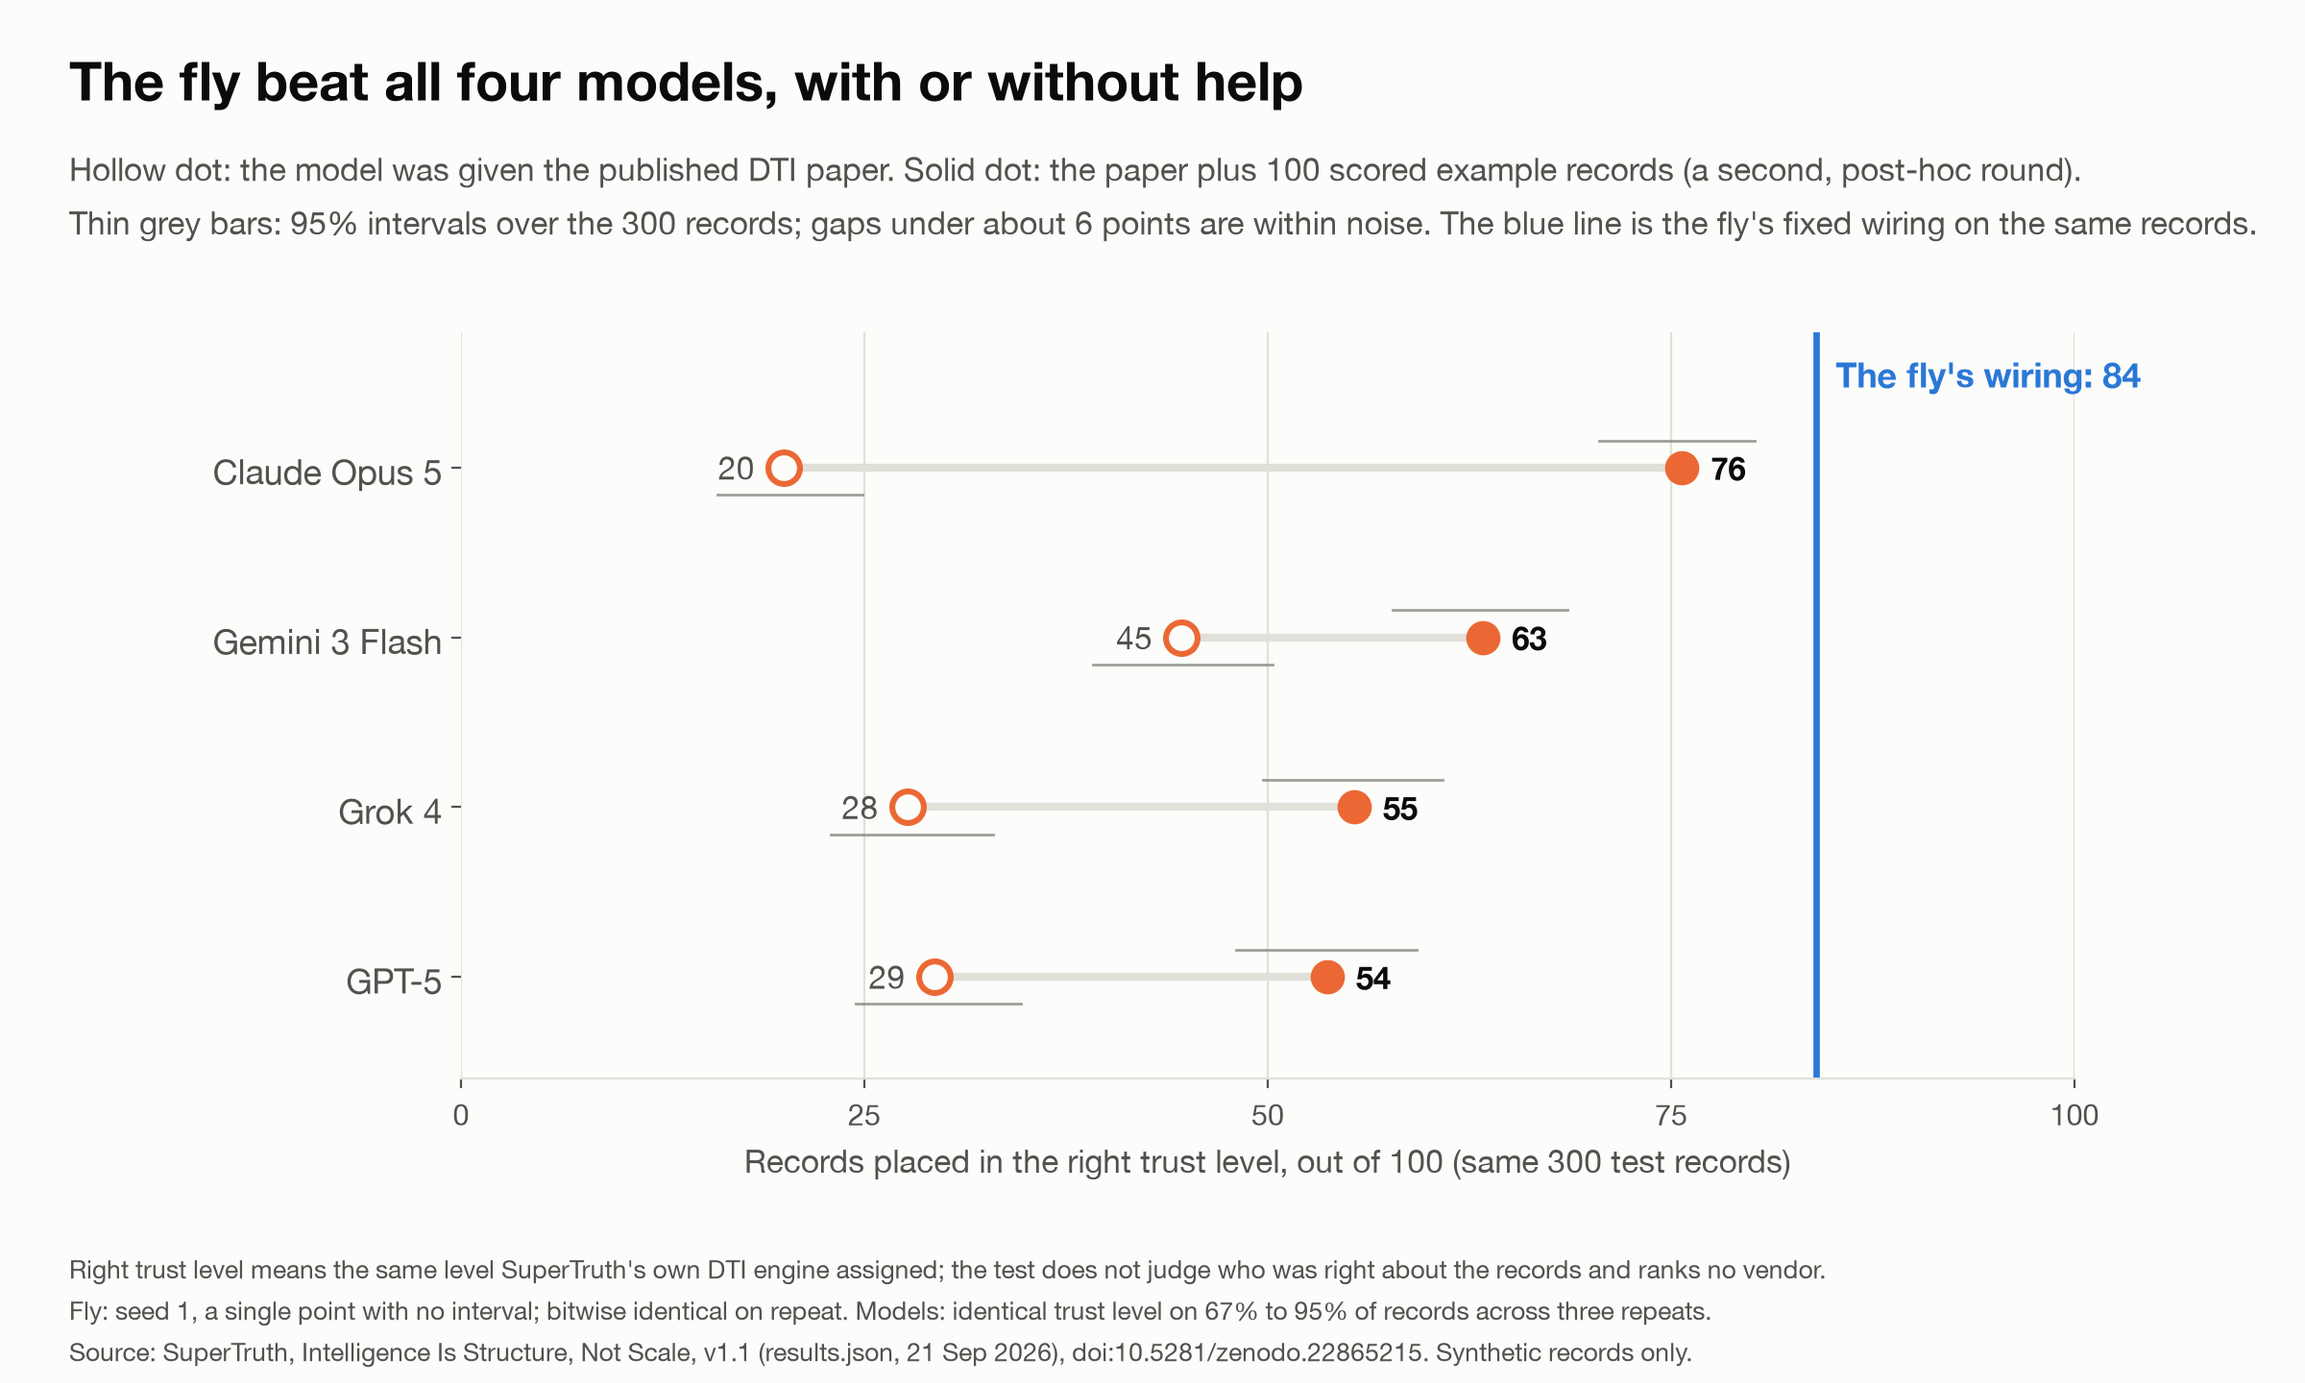
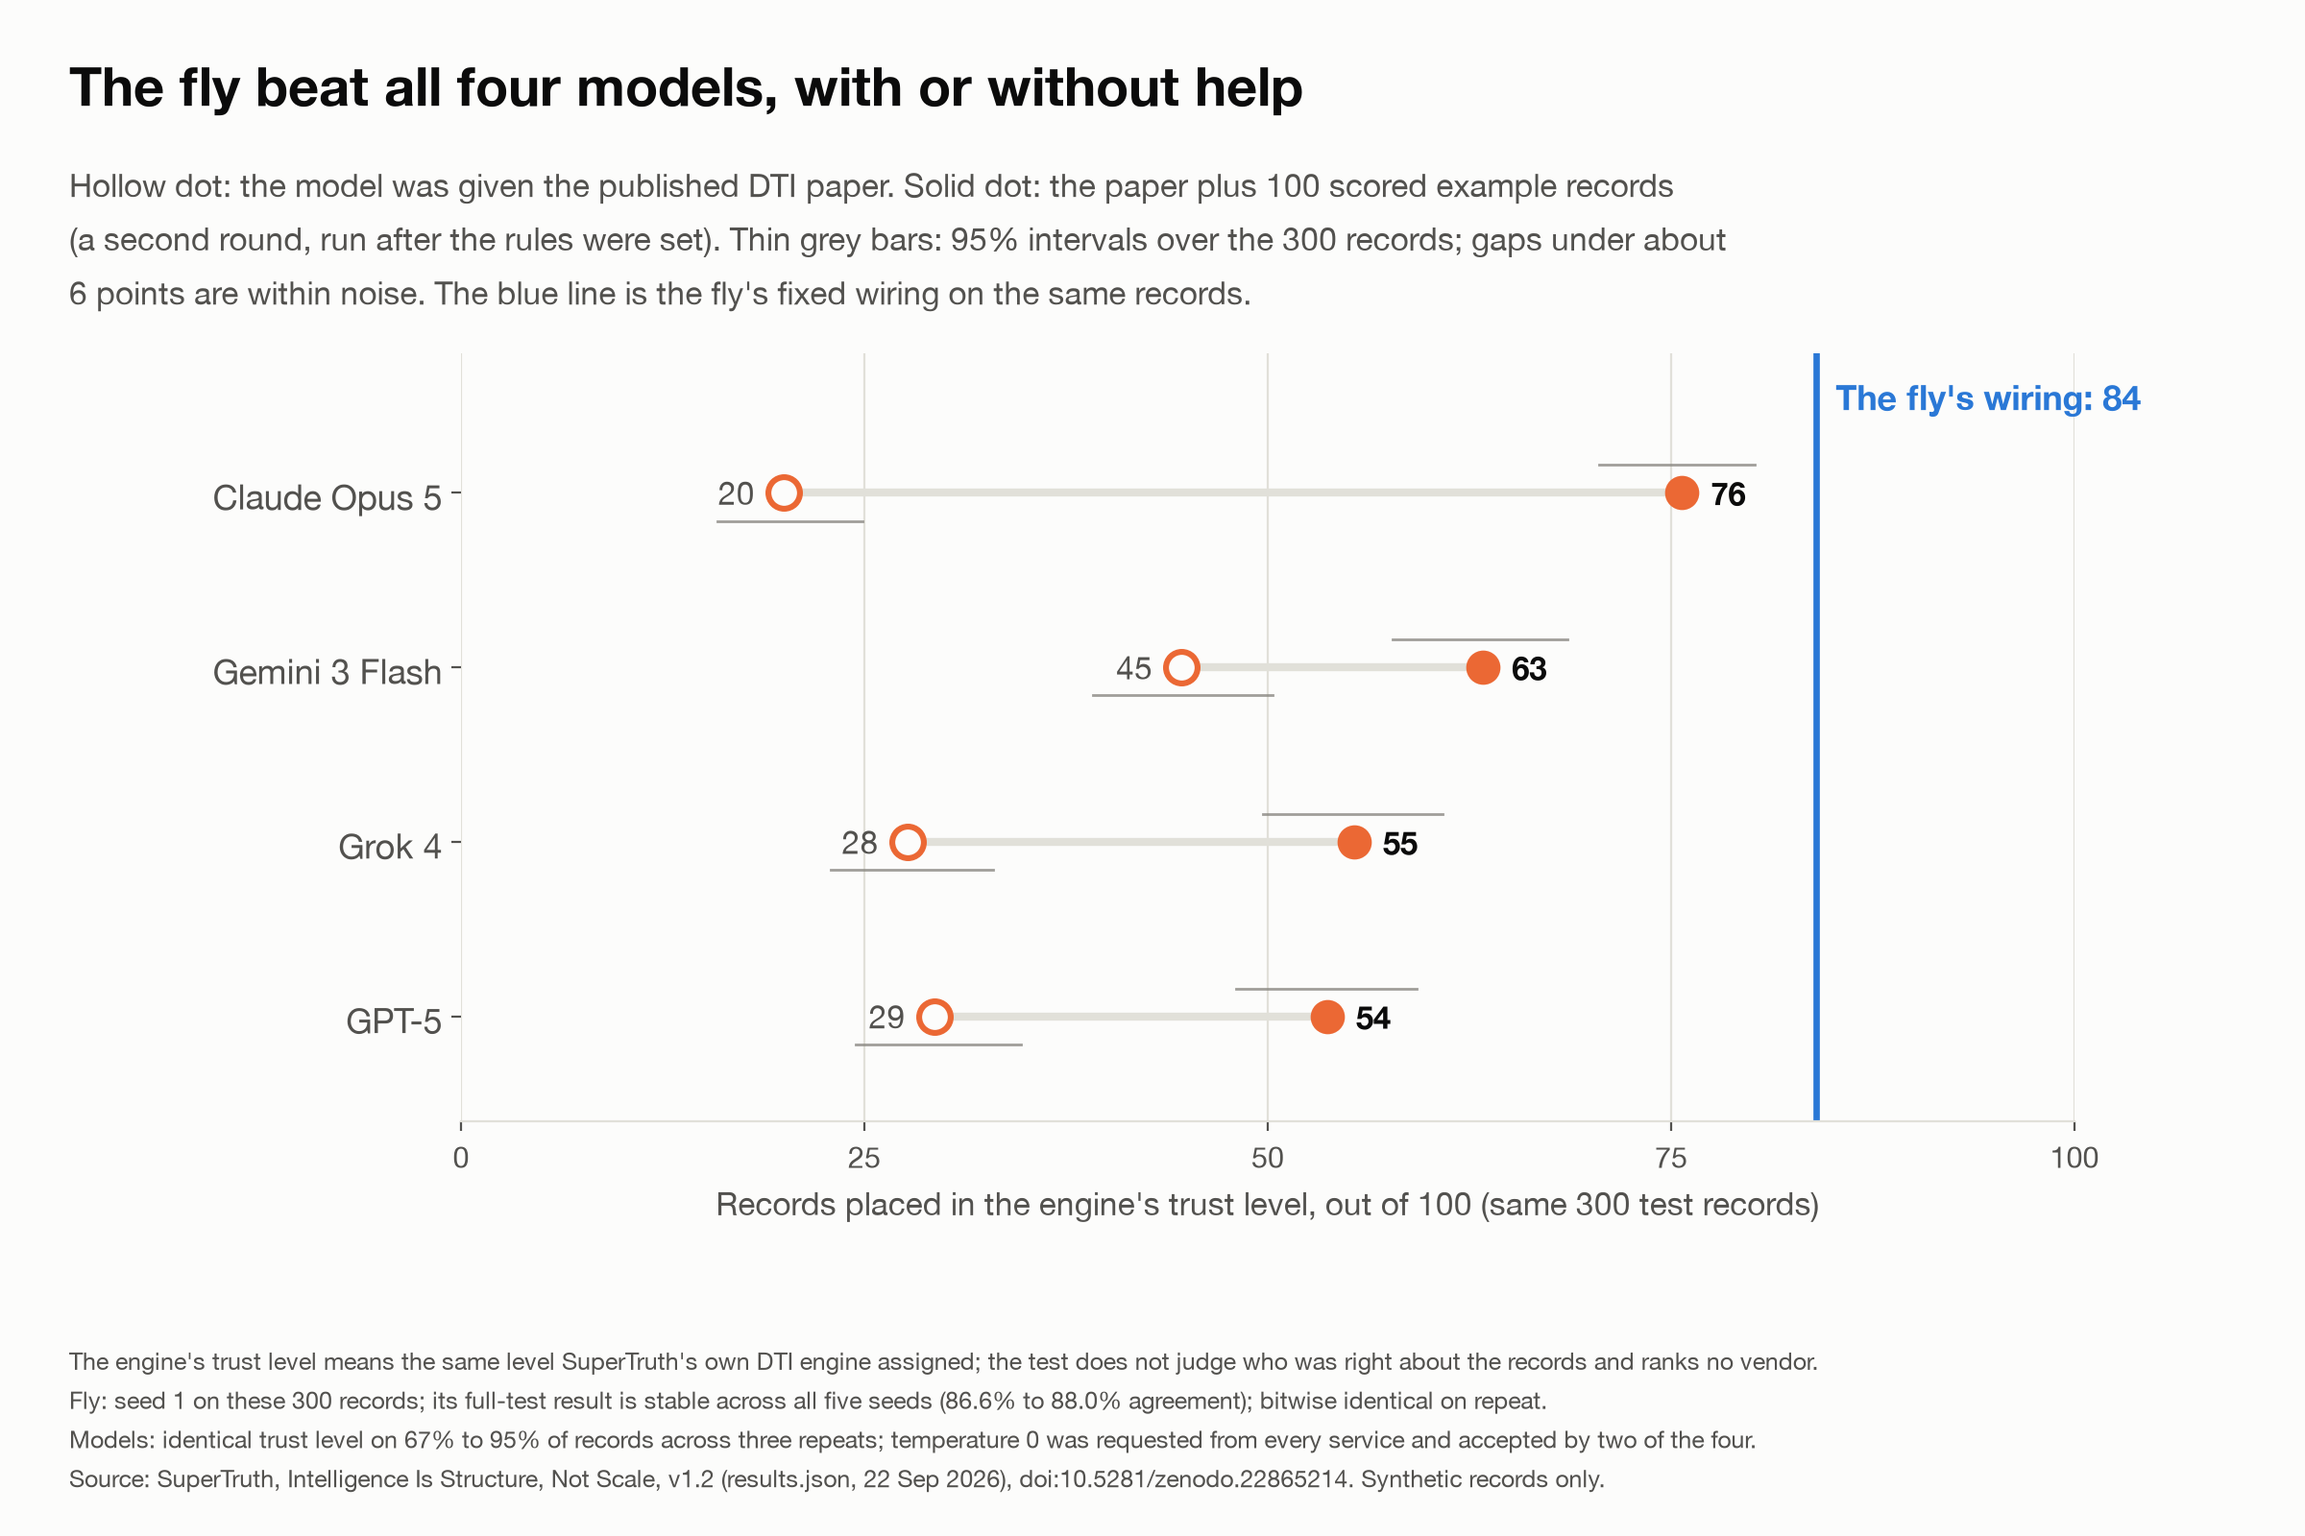
Public export: article image scripts and five-seed images

diff --git a/viz/article_images.py b/viz/article_images.py
@@ -2,13 +2,15 @@
 
 1  cover:   the fly's wiring, three views, plain caption, source line; no technical header
 2  models:  right trust level out of 100 on the same 300 records; fly as a reference; two rounds per model (dot plot)
-3  wiring:  the fly's exact wiring did not matter; error in points, two seeds per arm, mean marked
+3  wiring:  the fly's exact wiring did not matter; error in points, five seeds per arm, mean marked
 
 Every number is read from results/results.json (written by scripts/collect_results.py). Palette from viz/figures.py.
-Run: uv run --project ~/Projects/ds-lab python viz/article_images.py
+Run: uv run --project ~/Projects/ds-lab python viz/article_images.py [--wording counsel|beat]
+  counsel (default): the company-page wording counsel asked for (22 Sep 2026), written to viz/article_company/
+  beat: JAS's own first-person wording, written to viz/article/
 """
 from __future__ import annotations
-import json, sys
+import argparse, json, sys
 from pathlib import Path
 import matplotlib
 matplotlib.use("Agg")
@@ -20,10 +22,15 @@ ROOT = Path(__file__).resolve().parents[1]
 sys.path.insert(0, str(ROOT / "viz"))
 from figures import C, load_points, FOOTER  # noqa: E402
 
-OUT = ROOT / "viz" / "article"; OUT.mkdir(exist_ok=True)
+_ap = argparse.ArgumentParser(); _ap.add_argument("--wording", choices=("counsel", "beat"), default="counsel"); WORDING = _ap.parse_args().wording
+OUT = ROOT / "viz" / ("article" if WORDING == "beat" else "article_company"); OUT.mkdir(exist_ok=True)
 R = json.load(open(ROOT / "results" / "results.json"))
 RES = R["results"]; FX = R["extra"]["frontier"]
-SRC = "Source: SuperTruth, Intelligence Is Structure, Not Scale, v1.1 (results.json, 21 Sep 2026), doi:10.5281/zenodo.22865215. Synthetic records only."
+SRC = "Source: SuperTruth, Intelligence Is Structure, Not Scale, v1.2 (results.json, 22 Sep 2026), doi:10.5281/zenodo.22865214. Synthetic records only."
+COVER_HEAD = {"beat": "A fruit fly's brain beat\nClaude, GPT-5, Grok and Gemini\nat judging health records.",
+              "counsel": "A fruit fly's brain matched\nSuperTruth's health data trust\nscore more often than four\nleading AI models."}[WORDING]
+MODELS_TITLE = {"beat": "The fly beat all four models, with or without help",
+                "counsel": "Agreement with the DTI score: the fly and the four models, both rounds"}[WORDING]
 
 plt.rcParams.update({"font.family": "sans-serif", "font.sans-serif": ["Helvetica Neue", "Helvetica", "Arial", "DejaVu Sans"],
                      "figure.facecolor": C["surface"], "axes.facecolor": C["surface"], "savefig.facecolor": C["surface"],
@@ -45,7 +52,7 @@ def cover():
     xr = x.min() + 20; yb = (-y).min() + 10
     ax.plot([xr, xr + 200], [yb, yb], color=C["ink2"], lw=2.0, solid_capstyle="butt")
     ax.text(xr, yb + 10, "0.2 mm", fontsize=14, color=C["ink2"], va="bottom")
-    fig.text(0.045, 0.86, "A fruit fly's brain beat\nClaude, GPT-5, Grok and Gemini\nat judging health records.", fontsize=44, weight="bold", va="top", linespacing=1.15)
+    fig.text(0.045, 0.86, COVER_HEAD, fontsize=44 if WORDING == "beat" else 40, weight="bold", va="top", linespacing=1.15)
     fig.text(0.045, 0.52, "Same 300 medical records. The fly's fixed wiring put 84 in 100\nin the same trust level SuperTruth's engine did. The four\nmodels: 20 to 45. Given 100 scored examples to learn from,\nthe best of them reached 76. The fly gave the same answer\nevery time it was asked.",
              fontsize=19, color=C["ink2"], va="top", linespacing=1.4)
     for fy, col, txt in ((0.285, C["sensory"], f"Where a record goes in: {rc['sensory']:,} sensory cells"),
@@ -54,7 +61,7 @@ def cover():
         fig.patches.append(matplotlib.patches.Circle((0.052, fy), 0.0075, transform=fig.transFigure, color=col, figure=fig))
         fig.text(0.066, fy, txt, color=C["ink2"], fontsize=16, va="center")
     fig.text(0.045, 0.105, f"Seen from the front: {meta['n_neurons'] - meta['n_unpositioned']:,} of {meta['n_neurons']:,} nerve cells at their recorded positions, 6,242,118 connections. Synthetic records only; no real patient's data.\n" + FOOTER +
-             "\nThe test measures agreement with SuperTruth's own DTI score and ranks no vendor. SuperTruth, Intelligence Is Structure, Not Scale (2026), doi:10.5281/zenodo.22865215. Two of five planned runs; provisional.",
+             "\nThe test measures agreement with SuperTruth's own DTI score and ranks no vendor. SuperTruth, Intelligence Is Structure, Not Scale (2026), doi:10.5281/zenodo.22865214. All five planned runs complete.",
              fontsize=11, color=C["ink2"], va="top", linespacing=1.45)
     save(fig, "cover_fly_wiring")
 
@@ -66,7 +73,7 @@ def models():
     order = names  # fixed order (alphabetical by vendor); the chart ranks no one
     ci = {k: (100 * RES[k + "_ex"]["dti_tier_accuracy"]["ci_low"], 100 * RES[k + "_ex"]["dti_tier_accuracy"]["ci_high"]) for k, _ in names}
     ci1 = {k: (100 * RES[k]["dti_tier_accuracy"]["ci_low"], 100 * RES[k]["dti_tier_accuracy"]["ci_high"]) for k, _ in names}
-    fig, ax = plt.subplots(figsize=(12, 7.2)); fig.subplots_adjust(left=0.20, right=0.90, top=0.76, bottom=0.22)
+    fig, ax = plt.subplots(figsize=(12, 8.0)); fig.subplots_adjust(left=0.20, right=0.90, top=0.77, bottom=0.27)
     ys = np.arange(len(order))[::-1]
     for y, (k, label) in zip(ys, order):
         ax.plot([g[k], g2[k]], [y, y], color=C["hairline"], lw=3, zorder=1)
@@ -81,22 +88,24 @@ def models():
     ax.set_ylim(-0.6, len(order) - 0.2)
     ax.set_yticks(ys); ax.set_yticklabels([l for _, l in order], fontsize=13)
     ax.set_xlim(0, 100); ax.set_xticks([0, 25, 50, 75, 100]); ax.tick_params(axis="x", labelsize=11)
-    ax.set_xlabel("Records placed in the right trust level, out of 100 (same 300 test records)", fontsize=12, color=C["ink2"])
+    ax.set_xlabel("Records placed in the engine's trust level, out of 100 (same 300 test records)", fontsize=12, color=C["ink2"])
     for sp in ("top", "right", "left"): ax.spines[sp].set_visible(False)
     ax.grid(axis="x", color=C["hairline"], lw=0.8); ax.set_axisbelow(True)
-    fig.text(0.03, 0.965, "The fly beat all four models, with or without help", fontsize=20, weight="semibold", va="top")
-    fig.text(0.03, 0.895, "Hollow dot: the model was given the published DTI paper. Solid dot: the paper plus 100 scored example records (a second, post-hoc round).\n"
-             "Thin grey bars: 95% intervals over the 300 records; gaps under about 6 points are within noise. The blue line is the fly's fixed wiring on the same records.",
+    fig.text(0.03, 0.965, MODELS_TITLE, fontsize=20, weight="semibold", va="top")
+    fig.text(0.03, 0.895, "Hollow dot: the model was given the published DTI paper. Solid dot: the paper plus 100 scored example records\n"
+             "(a second round, run after the rules were set). Thin grey bars: 95% intervals over the 300 records; gaps under about\n"
+             "6 points are within noise. The blue line is the fly's fixed wiring on the same records.",
              fontsize=12, color=C["ink2"], va="top", linespacing=1.45)
-    fig.text(0.03, 0.095, "Right trust level means the same level SuperTruth's own DTI engine assigned; the test does not judge who was right about the records and ranks no vendor.\n"
-             "Fly: seed 1, a single point with no interval; bitwise identical on repeat. Models: identical trust level on 67% to 95% of records across three repeats.\n" + SRC,
-             fontsize=9.5, color=C["ink2"], va="top", linespacing=1.4)
+    fig.text(0.03, 0.125, "The engine's trust level means the same level SuperTruth's own DTI engine assigned; the test does not judge who was right about the records and ranks no vendor.\n"
+             "Fly: seed 1 on these 300 records; its full-test result is stable across all five seeds (86.6% to 88.0% agreement); bitwise identical on repeat.\n"
+             "Models: identical trust level on 67% to 95% of records across three repeats; temperature 0 was requested from every service and accepted by two of the four.\n" + SRC,
+             fontsize=9, color=C["ink2"], va="top", linespacing=1.4)
     save(fig, "chart_fly_vs_models")
 
 def wiring():
     arms = [("connectome", "The fly's real wiring"), ("shuffled", "The fly's wiring, scrambled"), ("random", "A random web, same size"),
-            ("mlp", "Ordinary trained network, same size"), ("linear", "Straight-line fit (two identical runs)")]
-    fig, ax = plt.subplots(figsize=(12, 7.2)); fig.subplots_adjust(left=0.30, right=0.95, top=0.78, bottom=0.17)
+            ("mlp", "Ordinary trained network, same size"), ("linear", "Straight-line fit (five identical runs)")]
+    fig, ax = plt.subplots(figsize=(12, 7.2)); fig.subplots_adjust(left=0.30, right=0.95, top=0.74, bottom=0.17)
     ys = np.arange(len(arms))[::-1]
     for y, (k, label) in zip(ys, arms):
         m = RES[k]["dti_mae"]; seeds = [v for v in m["per_seed"].values()]
@@ -107,15 +116,16 @@ def wiring():
         ax.text(m["mean"], y + 0.28, f"{m['mean']:.2f}", ha="center", fontsize=12, color=col, weight="semibold" if fixed else "normal")
     ax.set_yticks(ys); ax.set_yticklabels([l for _, l in arms], fontsize=13)
     ax.get_yticklabels()[0].set_fontweight("semibold"); ax.get_yticklabels()[0].set_color(C["sensory"])
-    ax.set_xlim(0, 4.2); ax.set_xticks([0, 1, 2, 3, 4]); ax.tick_params(axis="x", labelsize=11)
+    ax.set_xlim(0, 5.5); ax.set_xticks([0, 1, 2, 3, 4, 5]); ax.tick_params(axis="x", labelsize=11)
     ax.set_xlabel("Average error against SuperTruth's score, in points on the 0 to 100 scale (lower is better; 4,001 test records)", fontsize=12, color=C["ink2"])
     for sp in ("top", "right", "left"): ax.spines[sp].set_visible(False)
     ax.grid(axis="x", color=C["hairline"], lw=0.8); ax.set_axisbelow(True)
     fig.text(0.03, 0.965, "The fly's exact wiring did not matter. The kind of wiring did.", fontsize=20, weight="semibold", va="top")
-    fig.text(0.03, 0.895, "Scrambling the fly's wiring gave the same result; a random web of the same size came within a quarter of a point. All three fixed webs beat an\n"
-             "ordinary trained network with the same number of adjustable parts. Small dots: the two runs so far. Bar: their average.",
+    fig.text(0.03, 0.895, "Scrambling the fly's wiring gave the same result, and a random web of the same size matched it within a tenth of a point.\n"
+             "All three fixed webs came closer to the score than an ordinary trained network with the same number of adjustable parts.\n"
+             "Small dots: the five runs. Bar: their average.",
              fontsize=12, color=C["ink2"], va="top", linespacing=1.45)
-    fig.text(0.03, 0.05, "Two of five planned runs; provisional. " + SRC, fontsize=9.5, color=C["ink2"], va="top")
+    fig.text(0.03, 0.05, "All five planned runs complete. " + SRC, fontsize=9.5, color=C["ink2"], va="top")
     save(fig, "chart_wiring_did_not_matter")
 
 if __name__ == "__main__":

diff --git a/viz/article_video.py b/viz/article_video.py
@@ -1,8 +1,9 @@
 """LinkedIn video: the fly's wiring rotating, 1920x1080, 30 fps, ~25 s. Frames from matplotlib, encoded with ffmpeg (H.264).
-Run: uv run --project ~/Projects/ds-lab python viz/article_video.py
+Run: uv run --project ~/Projects/ds-lab python viz/article_video.py [--wording counsel|beat]
+  counsel (default): the company-page wording counsel asked for (22 Sep 2026) -> viz/article_company/; beat: JAS's own wording -> viz/article/
 """
 from __future__ import annotations
-import subprocess, sys, tempfile
+import argparse, subprocess, sys, tempfile
 from pathlib import Path
 import numpy as np
 import matplotlib
@@ -13,7 +14,10 @@ ROOT = Path(__file__).resolve().parents[1]; sys.path.insert(0, str(ROOT / "viz")
 from figures import C, load_points, FOOTER  # noqa: E402
 
 FPS, ROT_S, HOLD_S = 30, 20, 5
-OUT = ROOT / "viz" / "article" / "fly_wiring_rotation_1080p.mp4"
+_ap = argparse.ArgumentParser(); _ap.add_argument("--wording", choices=("counsel", "beat"), default="counsel"); WORDING = _ap.parse_args().wording
+OUT = ROOT / "viz" / ("article" if WORDING == "beat" else "article_company") / "fly_wiring_rotation_1080p.mp4"; OUT.parent.mkdir(exist_ok=True)
+HEAD = {"beat": "A fruit fly's brain beat\nClaude, GPT-5, Grok and Gemini\nat judging health records.",
+        "counsel": "A fruit fly's brain matched\nSuperTruth's health data trust score\nmore often than four leading AI models."}[WORDING]
 
 xyz, role, meta = load_points(); rc = meta["role_counts"]
 xyz = xyz - xyz.mean(axis=0)
@@ -36,7 +40,7 @@ def frame(theta, path, hold_alpha=0.0):
     for r, col, sz, a in order:
         m = role[idx] == r
         ax.scatter(h[idx][m], v[idx][m], s=sz, c=col, alpha=a, linewidths=0, rasterized=True)
-    fig.text(0.04, 0.86, "A fruit fly's brain beat\nClaude, GPT-5, Grok and Gemini\nat judging health records.", fontsize=36, weight="bold", va="top", linespacing=1.15)
+    fig.text(0.04, 0.86, HEAD, fontsize=36 if WORDING == "beat" else 32, weight="bold", va="top", linespacing=1.15)
     for fy, col, txt in ((0.50, C["sensory"], f"Where a record goes in: {rc['sensory']:,} sensory cells"),
                          (0.455, C["readout"], f"Where the score comes out: {rc['descending'] + rc['motor']:,} descending and motor cells"),
                          (0.41, C["other"], f"The fixed wiring between: {rc['other']:,} cells. Not one connection moved.")):
@@ -46,7 +50,7 @@ def frame(theta, path, hold_alpha=0.0):
         fig.text(0.04, 0.34, "Same 300 medical records. The fly's fixed wiring matched\nSuperTruth's trust level on 84 in 100. The four models: 20 to 45.\nGiven 100 scored examples, the best reached 76. The fly gave\nthe same answer every time it was asked.",
                  fontsize=17, color=C["ink2"], va="top", linespacing=1.45, alpha=hold_alpha)
     fig.text(0.04, 0.085, f"{meta['n_neurons'] - meta['n_unpositioned']:,} of {meta['n_neurons']:,} nerve cells at their recorded positions; 6,242,118 connections. Synthetic records only.\n"
-             + FOOTER + "\nAgreement with SuperTruth's own DTI score; ranks no vendor. doi:10.5281/zenodo.22865215. Two of five planned runs; provisional.",
+             + FOOTER + "\nAgreement with SuperTruth's own DTI score; ranks no vendor. doi:10.5281/zenodo.22865214. All five planned runs complete.",
              fontsize=10.5, color=C["ink2"], va="top", linespacing=1.45)
     fig.savefig(path, dpi=100); plt.close(fig)
 
